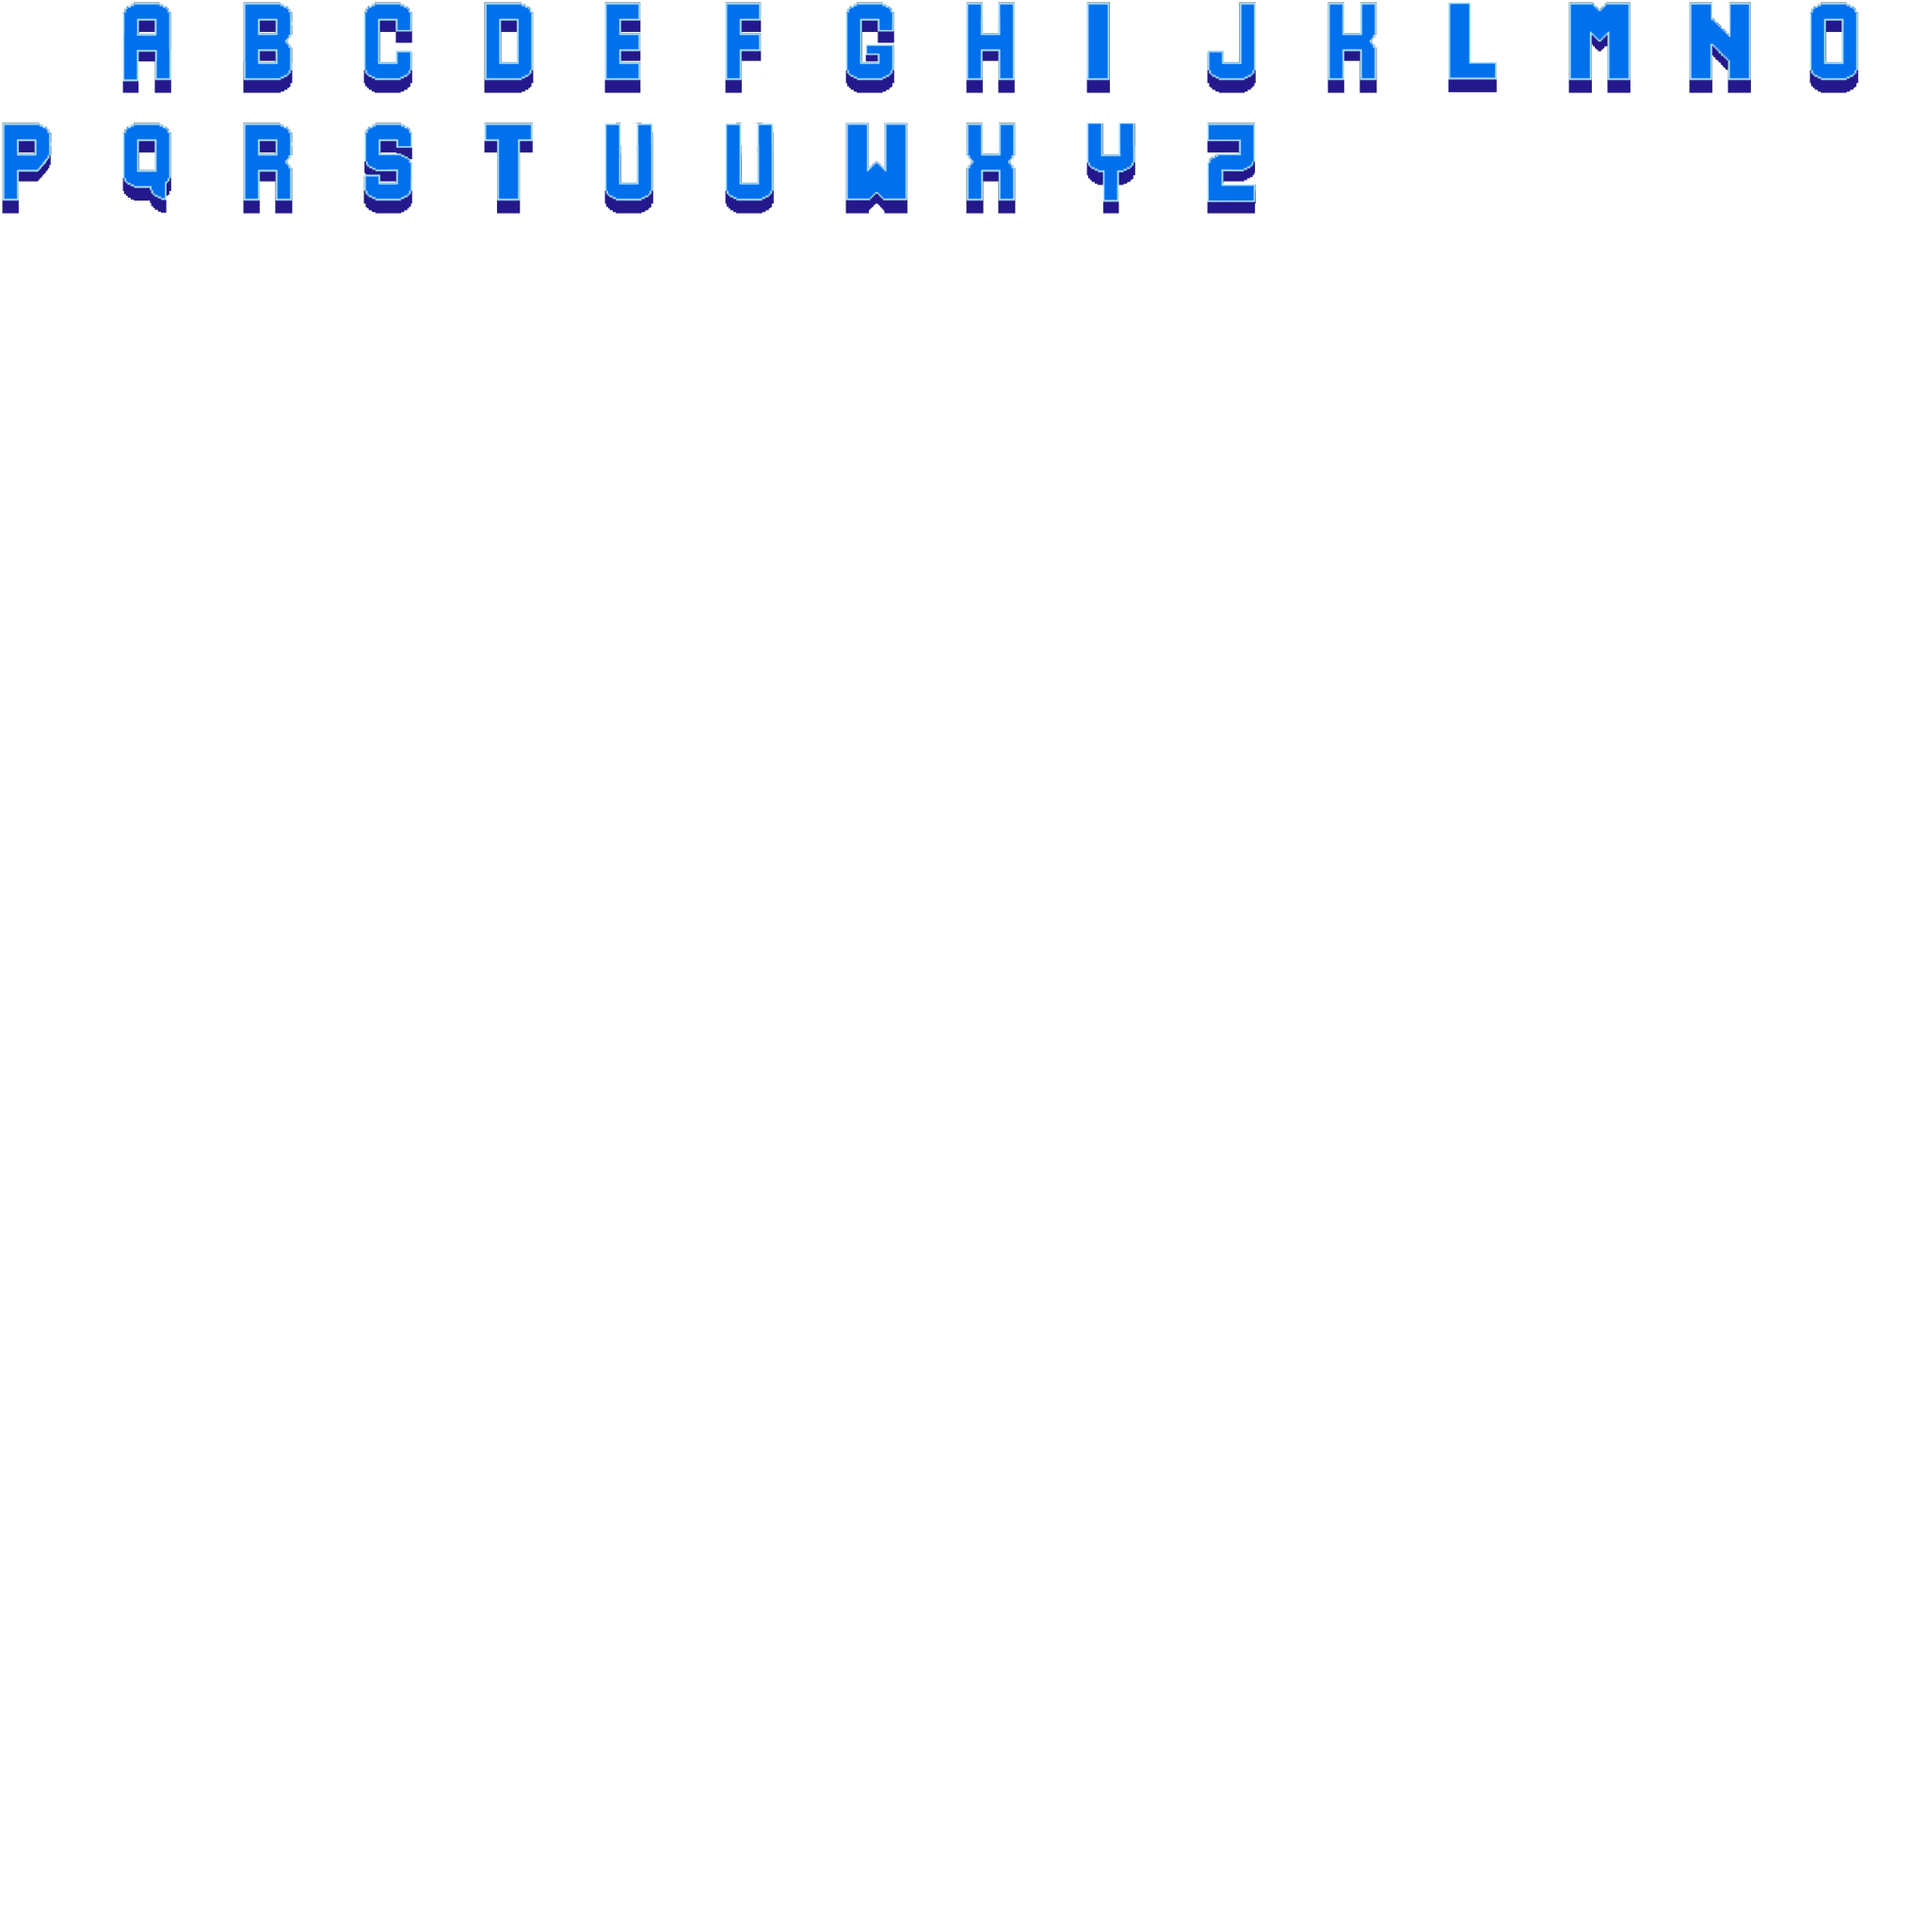
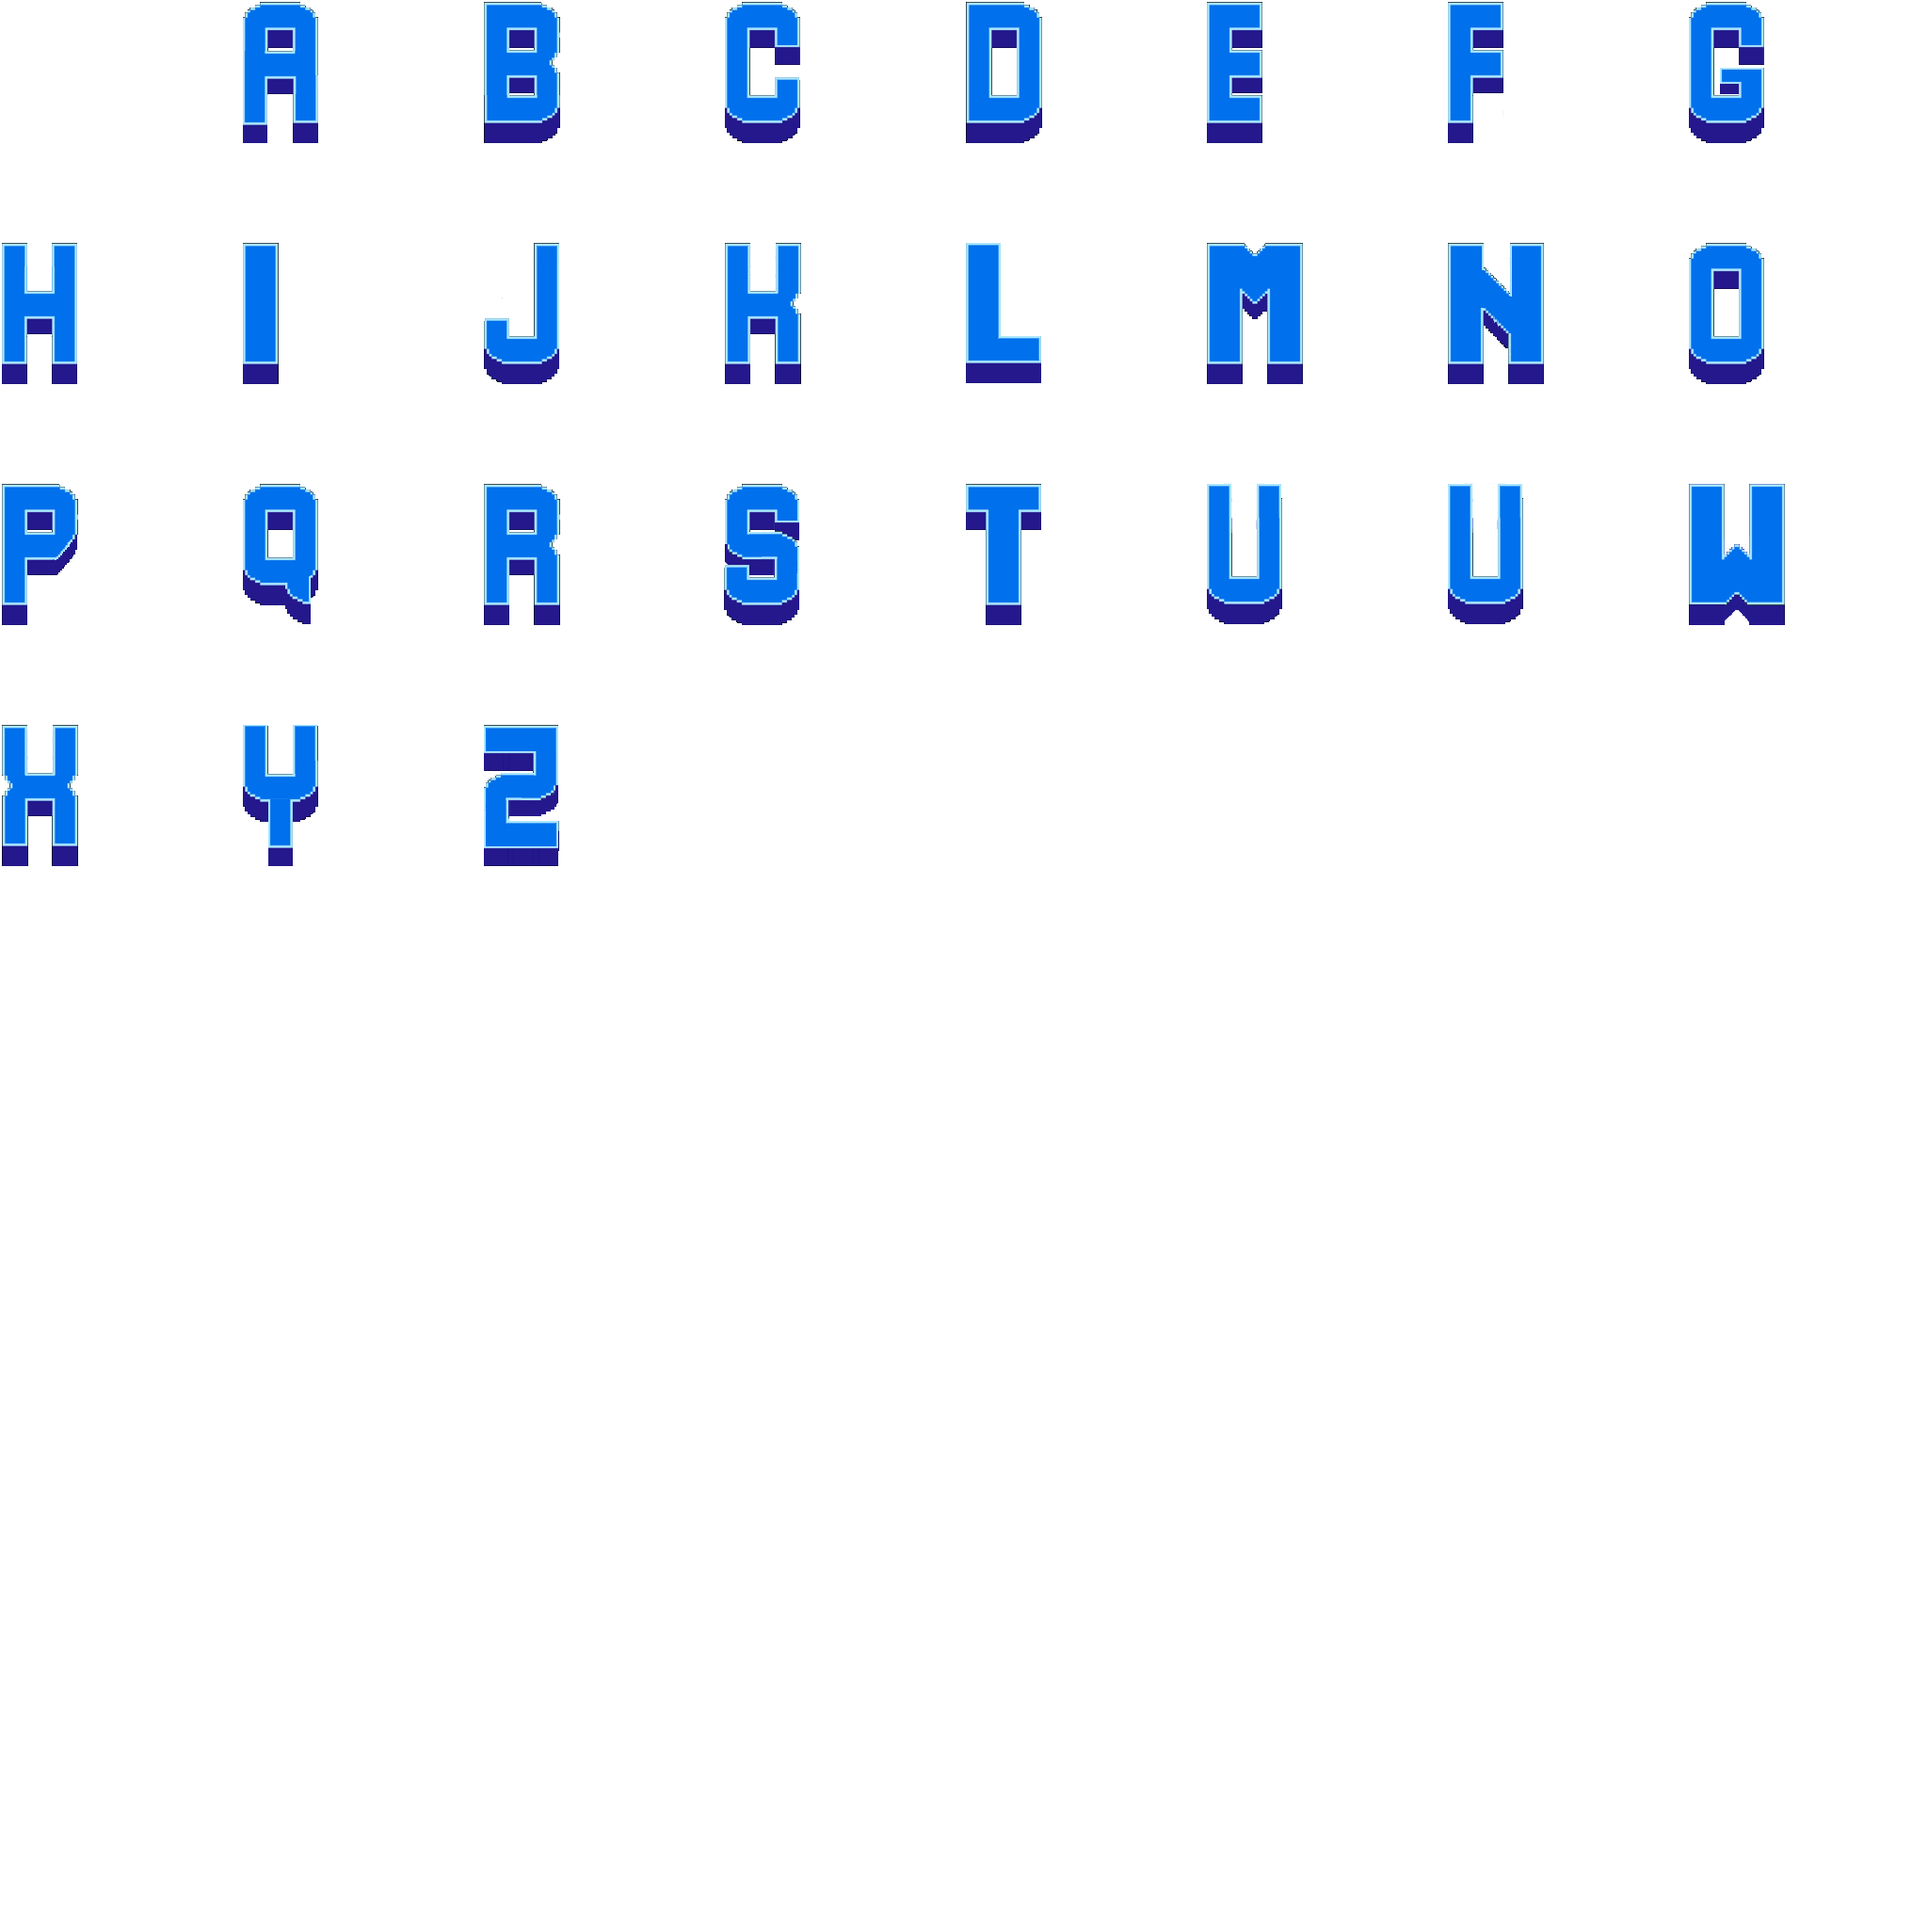
Remap title screen font.

diff --git a/src/main.rs b/src/main.rs
@@ -45,7 +45,7 @@ const RIGHT: &str = CUBE_MAP;
 const TOP: &str = CUBE_MAP;
 const BOTTOM: &str = CUBE_MAP;
 const GROUND_PLANE_TEX: &str = "tile_rock_planet256x256.png";
-const TEXT_FONT_SHEET: &str = "font1024x1024.png";
+const TEXT_FONT_SHEET: &str = "font1684x1684.png";
 const TITLE_FONT_SHEET: &str = "title_font2048x2048.png";
 
 // Text colors.
@@ -141,47 +141,56 @@ fn load_text_font_atlas() -> FontAtlas {
 
 fn load_title_font_atlas() -> FontAtlas {
     let coords = [
-        (' ', (0,  0)),
-        ('A', (0,  1)), ('B', (0,  2)), ('C', (0,  3)), ('D', (0,  4)), ('E', (0,  5)), ('F', (0,  6)),
-        ('G', (0,  7)), ('H', (0,  8)), ('I', (0,  9)), ('J', (0, 10)), ('K', (0, 11)), ('L', (0, 12)),
-        ('M', (0, 13)), ('N', (0, 14)), ('O', (0, 15)), ('P', (1,  0)), ('Q', (1,  1)), ('R', (1,  2)),
-        ('S', (1,  3)), ('T', (1,  4)), ('U', (1,  5)), ('V', (1,  6)), ('W', (1,  7)), ('X', (1,  8)),
-        ('Y', (1,  9)), ('Z', (1, 10)),
-        ('a', (0,  1)), ('b', (0,  2)), ('c', (0,  3)), ('d', (0,  4)), ('e', (0,  5)), ('f', (0,  6)),
-        ('g', (0,  7)), ('h', (0,  8)), ('i', (0,  9)), ('j', (0, 10)), ('k', (0, 11)), ('l', (0, 12)),
-        ('m', (0, 13)), ('n', (0, 14)), ('o', (0, 15)), ('p', (1,  0)), ('q', (1,  1)), ('r', (1,  2)),
-        ('s', (1,  3)), ('t', (1,  4)), ('u', (1,  5)), ('v', (1,  6)), ('w', (1,  7)), ('x', (1,  8)),
-        ('y', (1,  9)), ('z', (1, 10)), 
+        (' ', (0,  0)), ('A', (0,  1)), ('B', (0,  2)), ('C', (0,  3)),
+        ('D', (0,  4)), ('E', (0,  5)), ('F', (0,  6)), ('G', (0,  7)),
+        ('H', (1,  0)), ('I', (1,  1)), ('J', (1,  2)), ('K', (1,  3)),
+        ('L', (1,  4)), ('M', (1,  5)), ('N', (1,  6)), ('O', (1,  7)),
+        ('P', (2,  0)), ('Q', (2,  1)), ('R', (2,  2)), ('S', (2,  3)),
+        ('T', (2,  4)), ('U', (2,  5)), ('V', (2,  6)), ('W', (2,  7)),
+        ('X', (3,  0)), ('Y', (3,  1)), ('Z', (3,  2)),
+                        ('a', (0,  1)), ('b', (0,  2)), ('c', (0,  3)),
+        ('d', (0,  4)), ('e', (0,  5)), ('f', (0,  6)), ('g', (0,  7)),
+        ('h', (1,  0)), ('i', (1,  1)), ('j', (1,  2)), ('k', (1,  3)),
+        ('l', (1,  4)), ('m', (1,  5)), ('n', (1,  6)), ('o', (1,  7)),
+        ('p', (2,  0)), ('q', (2,  1)), ('r', (2,  2)), ('s', (2,  3)),
+        ('t', (2,  4)), ('u', (2,  5)), ('v', (2,  6)), ('w', (2,  7)),
+        ('x', (3,  0)), ('y', (3,  1)), ('z', (3,  2)),
     ].iter().cloned().collect();
     let glyph_y_offsets = [
-        (' ', 0.0),
-        ('A', 0.0), ('B', 0.0), ('C', 0.0), ('D', 0.0), ('E', 0.0), ('F', 0.0),
-        ('G', 0.0), ('H', 0.0), ('I', 0.0), ('J', 0.0), ('K', 0.0), ('L', 0.0),
-        ('M', 0.0), ('N', 0.0), ('O', 0.0), ('P', 0.0), ('Q', 0.0), ('R', 0.0),
-        ('S', 0.0), ('T', 0.0), ('U', 0.0), ('V', 0.0), ('W', 0.0), ('X', 0.0),
-        ('Y', 0.0), ('Z', 0.0),
-        ('g', 0.0), ('h', 0.0), ('i', 0.0), ('j', 0.0), ('k', 0.0), ('l', 0.0),
-        ('a', 0.0), ('b', 0.0), ('c', 0.0), ('d', 0.0), ('e', 0.0), ('f', 0.0),
-        ('m', 0.0), ('n', 0.0), ('o', 0.0), ('p', 0.0), ('q', 0.0), ('r', 0.0),
-        ('s', 0.0), ('t', 0.0), ('u', 0.0), ('v', 0.0), ('w', 0.0), ('x', 0.0),
-        ('y', 0.0), ('z', 0.0),        
+        (' ', 0.0), ('A', 0.0), ('B', 0.0), ('C', 0.0),
+        ('D', 0.0), ('E', 0.0), ('F', 0.0), ('G', 0.0),
+        ('H', 0.0), ('I', 0.0), ('J', 0.0), ('K', 0.0),
+        ('L', 0.0), ('M', 0.0), ('N', 0.0), ('O', 0.0),
+        ('P', 0.0), ('Q', 0.0), ('R', 0.0), ('S', 0.0),
+        ('T', 0.0), ('U', 0.0), ('V', 0.0), ('W', 0.0),
+        ('X', 0.0), ('Y', 0.0), ('Z', 0.0),
+                    ('a', 0.0), ('b', 0.0), ('c', 0.0),
+        ('d', 0.0), ('e', 0.0), ('f', 0.0), ('g', 0.0),
+        ('h', 0.0), ('i', 0.0), ('j', 0.0), ('k', 0.0),
+        ('l', 0.0), ('m', 0.0), ('n', 0.0), ('o', 0.0),
+        ('p', 0.0), ('q', 0.0), ('r', 0.0), ('s', 0.0),
+        ('t', 0.0), ('u', 0.0), ('v', 0.0), ('w', 0.0),
+        ('x', 0.0), ('y', 0.0), ('z', 0.0),
     ].iter().cloned().collect();
     let glyph_widths = [
-        (' ', 0.45),
-        ('A', 0.45), ('B', 0.45), ('C', 0.45), ('D', 0.45), ('E', 0.35), ('F', 0.35),
-        ('G', 0.45), ('H', 0.45), ('I', 0.25), ('J', 0.45), ('K', 0.45), ('L', 0.45),
-        ('M', 0.55), ('N', 0.55), ('O', 0.45), ('P', 0.45), ('Q', 0.45), ('R', 0.45),
-        ('S', 0.45), ('T', 0.45), ('U', 0.45), ('V', 0.45), ('W', 0.55), ('X', 0.45),
-        ('Y', 0.45), ('Z', 0.45),
-        ('a', 0.45), ('b', 0.45), ('c', 0.45), ('d', 0.45), ('e', 0.35), ('f', 0.35),
-        ('g', 0.45), ('h', 0.45), ('i', 0.25), ('j', 0.45), ('k', 0.45), ('l', 0.45),
-        ('m', 0.55), ('n', 0.55), ('o', 0.45), ('p', 0.45), ('q', 0.45), ('r', 0.45),
-        ('s', 0.45), ('t', 0.45), ('u', 0.45), ('v', 0.45), ('w', 0.55), ('x', 0.45),
-        ('y', 0.45), ('z', 0.45), 
+        (' ', 0.40), ('A', 0.40), ('B', 0.40), ('C', 0.40),
+        ('D', 0.40), ('E', 0.30), ('F', 0.30), ('G', 0.40),
+        ('H', 0.40), ('I', 0.25), ('J', 0.40), ('K', 0.40),
+        ('L', 0.40), ('M', 0.50), ('N', 0.50), ('O', 0.40),
+        ('P', 0.40), ('Q', 0.40), ('R', 0.40), ('S', 0.40),
+        ('T', 0.40), ('U', 0.40), ('V', 0.40), ('W', 0.50),
+        ('X', 0.40), ('Y', 0.40), ('Z', 0.40),
+                     ('a', 0.40), ('b', 0.40), ('c', 0.40),
+        ('d', 0.40), ('e', 0.30), ('f', 0.30), ('g', 0.40),
+        ('h', 0.40), ('i', 0.25), ('j', 0.40), ('k', 0.40),
+        ('l', 0.40), ('m', 0.50), ('n', 0.50), ('o', 0.40),
+        ('p', 0.40), ('q', 0.40), ('r', 0.40), ('s', 0.40),
+        ('t', 0.40), ('u', 0.40), ('v', 0.40), ('w', 0.50),
+        ('x', 0.40), ('y', 0.40), ('z', 0.40),
     ].iter().cloned().collect();
     let bitmap = vec![];
-    let rows = 16;
-    let columns = 16;
+    let rows = 8;
+    let columns = 8;
 
     FontAtlas {
         glyph_y_offsets: glyph_y_offsets,
